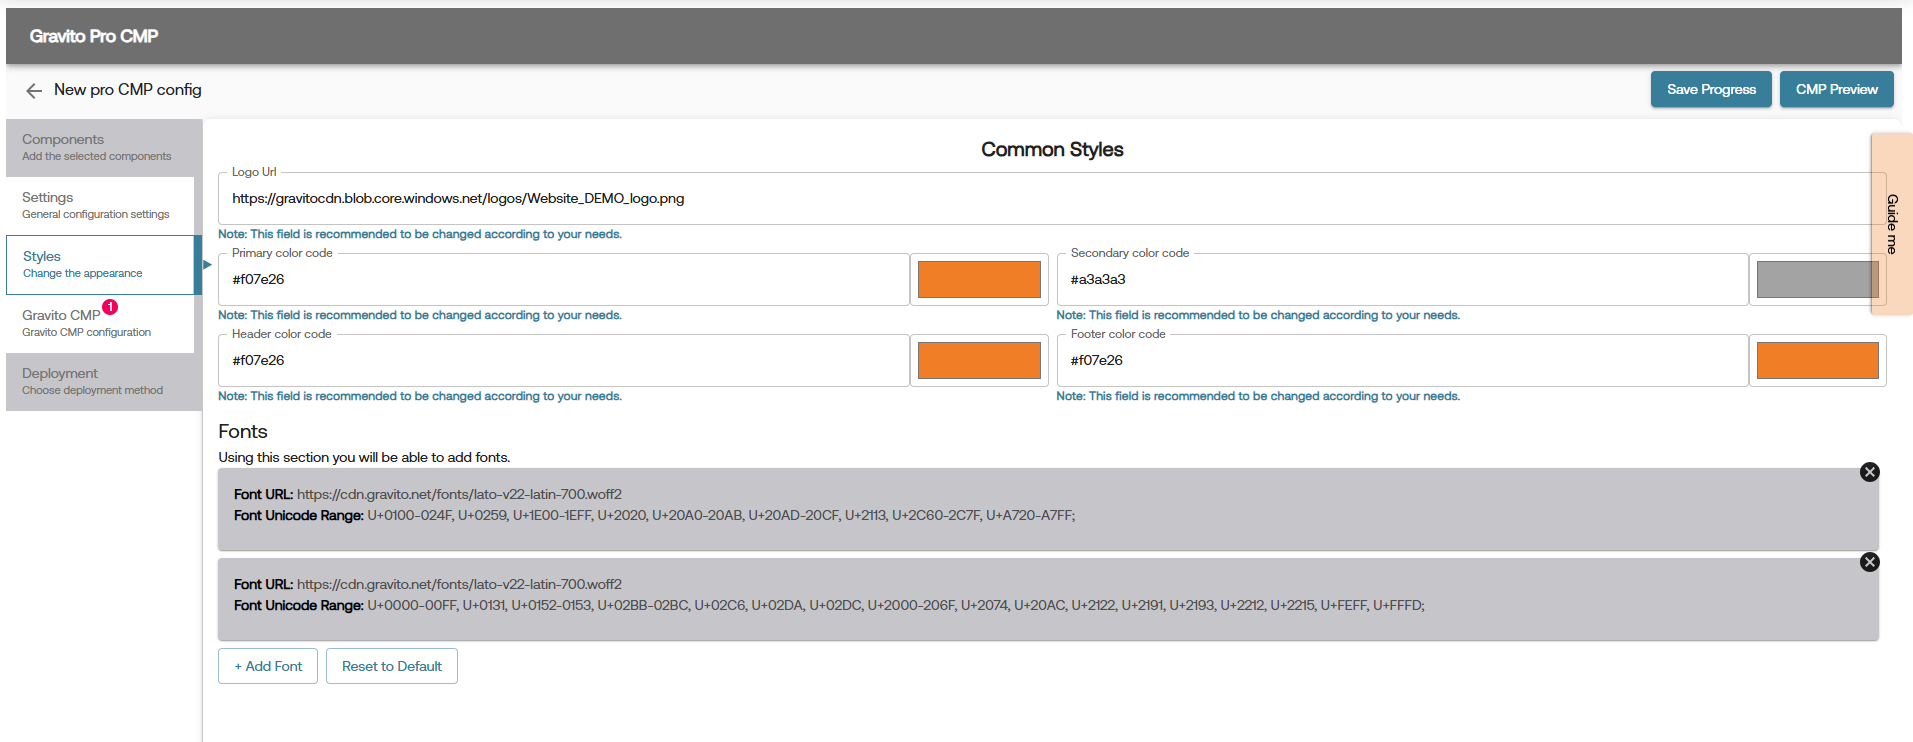
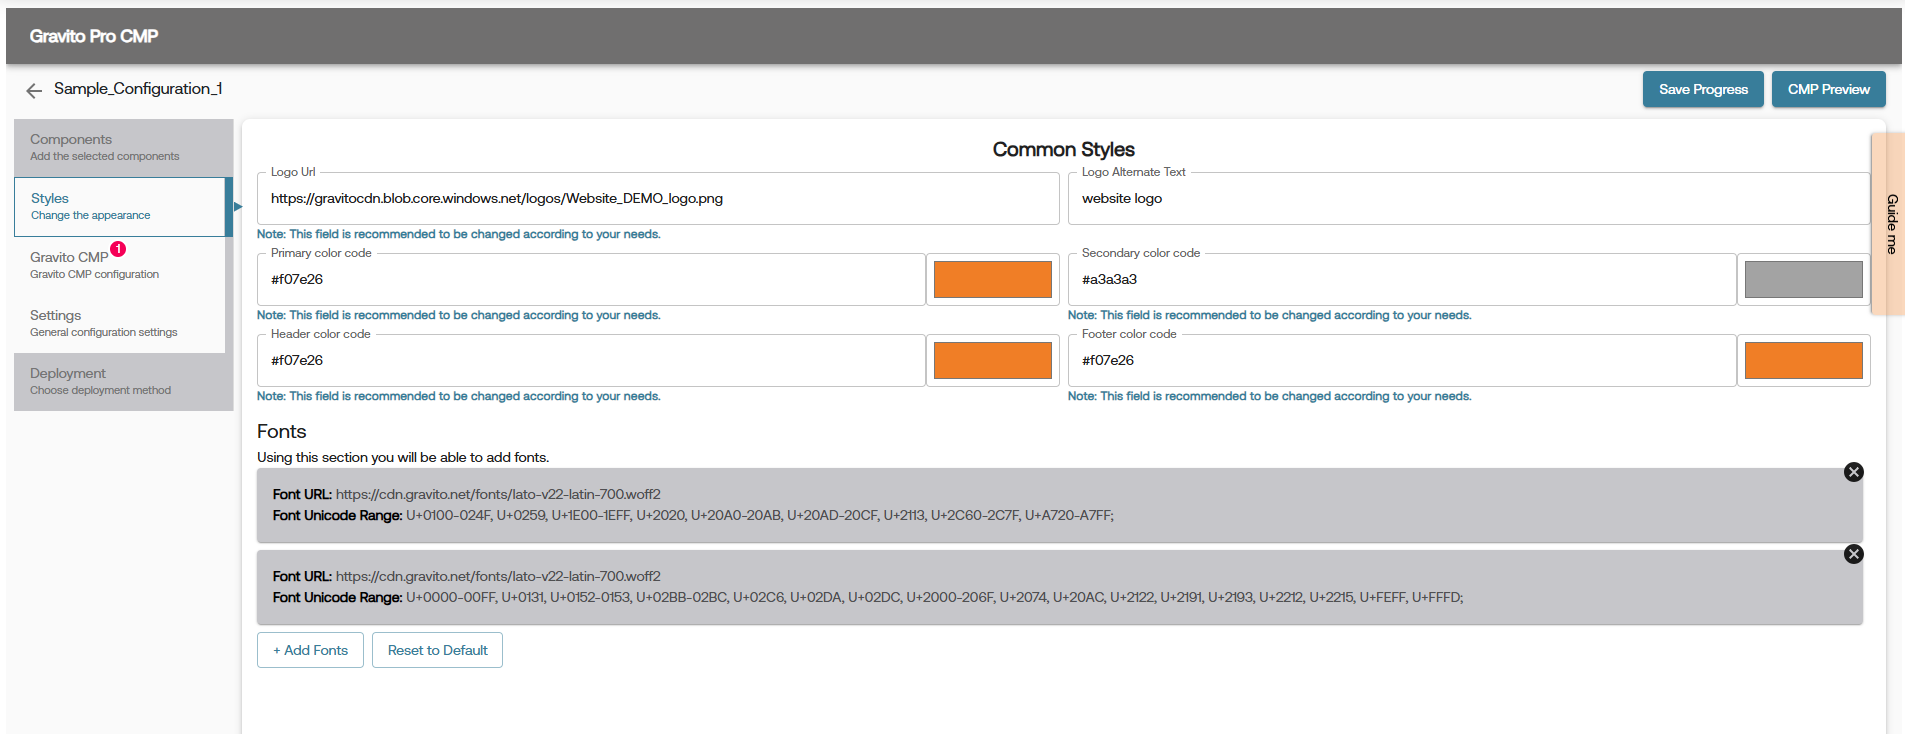
Add customization documentation for PRO CMP, including new fields and images

diff --git a/docs/Gravito_Pro_CMP/Customization.md b/docs/Gravito_Pro_CMP/Customization.md
@@ -1,0 +1,57 @@
+# Customizations in PRO CMP
+
+Gravito's PRO CMP is a highly customizable solution that allows you to tailor the user experience to meet your specific needs. These customizations can be made through the **Styles** tab in Gravito's PRO CMP configurator.
+    ![](./img/style_tab.png)
+
+## Styles Tab Fields
+
+The **Styles** tab allows you to configure the appearance of your CMP. Below are the fields available for customization:
+
+### 1. Logo URL
+- **Description**: URL of the logo to be displayed in the CMP.
+- **Example**: `https://gravitocdn.blob.core.windows.net/logos/Website_DEMO_logo.png`
+- **Note**: It is recommended to use a logo that aligns with your brand identity.
+
+### 2. Logo Alternate Text
+- **Description**: Alternate text for the logo, used for accessibility.
+- **Example**: `Website Logo`
+- **Note**: This text will be displayed if the logo cannot be loaded.
+
+### 3. Primary Color Code
+- **Description**: The primary color used in the CMP interface.
+- **Input Format**: Hexadecimal color code (e.g., `#f07e26`).
+- **Note**: Choose a color that matches your brand's primary theme.
+
+### 4. Secondary Color Code
+- **Description**: The secondary color used in the CMP interface.
+- **Input Format**: Hexadecimal color code (e.g., `#a3a3a3`).
+- **Note**: This color is typically used for less prominent elements.
+
+### 5. Header Color Code
+- **Description**: The color used for the header section of the CMP.
+- **Input Format**: Hexadecimal color code (e.g., `#f07e26`).
+- **Note**: Ensure this color contrasts well with the text for readability.
+
+### 6. Footer Color Code
+- **Description**: The color used for the footer section of the CMP.
+- **Input Format**: Hexadecimal color code (e.g., `#f07e26`).
+- **Note**: Similar to the header, ensure good contrast for readability.
+
+    ![](./img/color_target.png)
+
+### 7. Fonts
+- **Description**: Add custom fonts to be used in the CMP.
+- **Fields**:
+    - **Font URL**: URL pointing to the font file (e.g., `https://cdn.gravito.net/fonts/lato-v22-latin-700.woff2`).
+    - **Font Unicode Range**: Unicode range for the font (e.g., `U+0100-024F, U+0259, U+1E00-1EFF`).
+- **Actions**:
+    - **Add Font**: Add a new font configuration by clicking the **+ Add Font** button after which a modal will appear where you can add new font.
+        ![](./img/add_font_modal.png)
+    - **Reset to Default**: Revert to the default font settings.
+- **Note**: Ensure the font URL is accessible and the Unicode range covers the required characters.
+
+## Additional Customizations
+
+Apart from the styles tab, you can also customize the look and feel of the CMP by adding custom CSS. This allows for more granular control over the appearance of various elements within the CMP. You can add your CSS code in the **Custom CSS** editor field in the **Apprarence** sub-tab of the selected framework.
+
+![](./img/custom_css.png)

diff --git a/docs/Gravito_Pro_CMP/Components/GravitoCMP/Gravito_cmp_gcmv2.md b/docs/Gravito_Pro_CMP/Components/GravitoCMP/Gravito_cmp_gcmv2.md
@@ -17,8 +17,13 @@ With **Consent Mode v2**, Google introduced two **new consent signals** required
 - `analytics_storage`
 - `ad_user_data` (🆕)
 - `ad_personalization` (🆕)
+- `functionality_storage`
+- `personalization_storage`
+- `security_storage`
 
 > The new signals `ad_user_data` and `ad_personalization` are essential under DMA for platforms like Google Ads and should be set according to user consent.
+
+**Note:** The `functionality_storage`, `personalization_storage`, and `security_storage` signals can only be set to `granted` or `denied`.
 
 **[Official Google Documentation on Consent Mode v2](https://developers.google.com/tag-platform/devguides/consent)**
 
